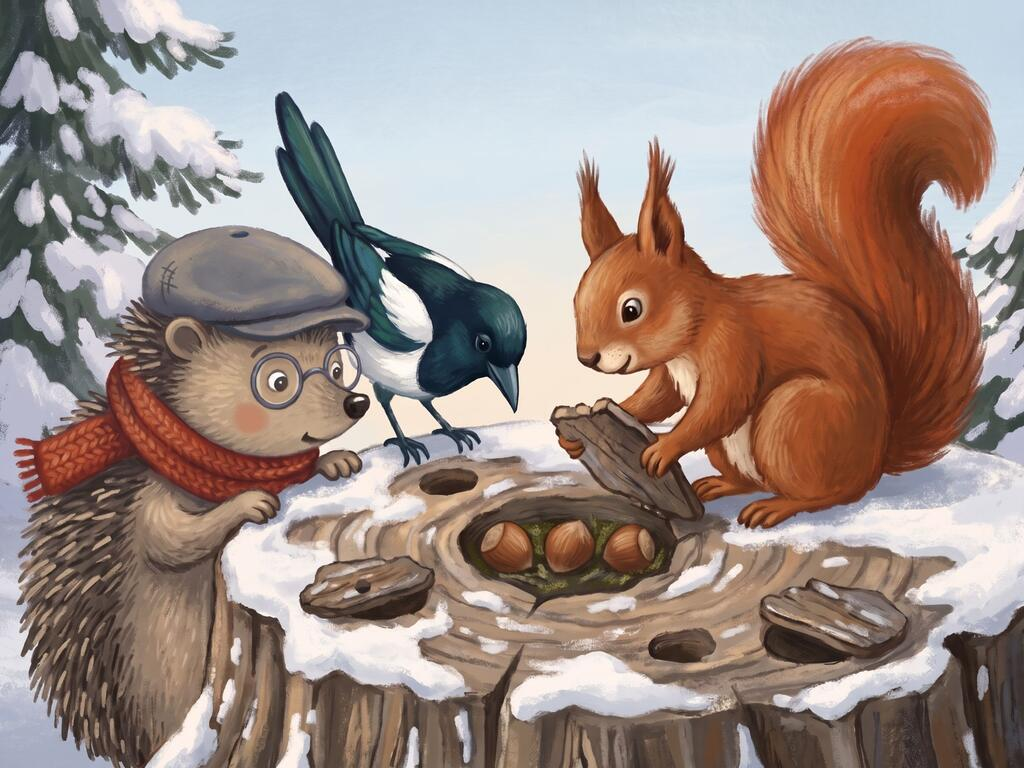
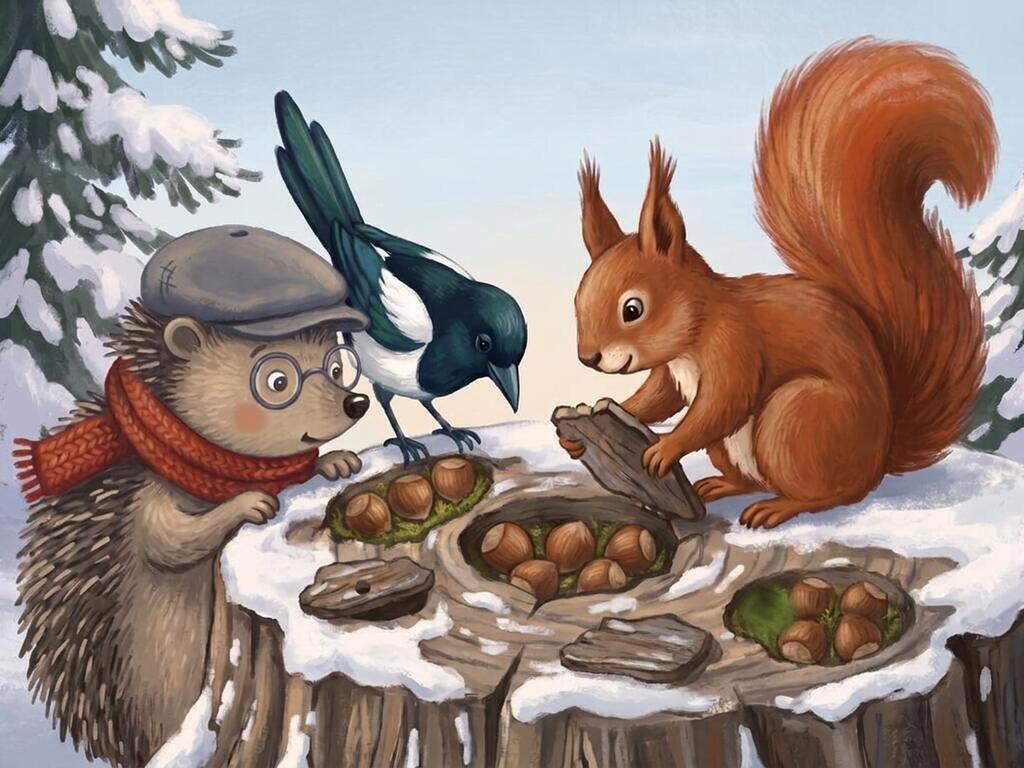
Julekalenderen dag 2: billede 2 viser alle tre huller med nødder
Billedet viste kun det første hul med tre nødder. Nu er alle tre huller
åbne: tre på række, tre over to og to over to. Midterhullet blev ikke
et terningmønster, så teksten siger nu 'tre øverst og to nederst' og
spørger 'Tre og to. Hvor mange er det?'.

Claude-Session: https://claude.ai/code/session_01JuJ2jhjKv5vpQpqD9x243Z

diff --git a/sw.js b/sw.js
@@ -1353,7 +1353,6 @@ const FILER_JUL = [
   'jul/lyd/en_gammel_mus_aabner_doeren_og_23f78c.mp3',
   'jul/lyd/en_gulerod_083a40.mp3',
   'jul/lyd/en_hel_uge_5f5feb.mp3',
-  'jul/lyd/en_i_hvert_hjoerne_og_en_71da91.mp3',
   'jul/lyd/en_kasket_ea5edc.mp3',
   'jul/lyd/en_lille_brik_med_gylden_kant_d5c019.mp3',
   'jul/lyd/en_lille_fisk_cc11ff.mp3',
@@ -1390,7 +1389,6 @@ const FILER_JUL = [
   'jul/lyd/find_en_til_841e08.mp3',
   'jul/lyd/find_to_ord_der_rimer_23a31d.mp3',
   'jul/lyd/fire_0e5c38.mp3',
-  'jul/lyd/fire_i_hjoernerne_og_en_i_8ab465.mp3',
   'jul/lyd/fire_snebolde_ligger_bag_snemanden_88acb8.mp3',
   'jul/lyd/fire_stammer_og_fem_stammer_807595.mp3',
   'jul/lyd/fire_venner_haenger_pynt_op_d71e40.mp3',
@@ -1506,7 +1504,7 @@ const FILER_JUL = [
   'jul/lyd/hele_vinteren_hvisker_sanne_43acf8.mp3',
   'jul/lyd/helt_oppe_i_toppen_af_traeet_45045f.mp3',
   'jul/lyd/her_bor_egernet_egon_2b6f17.mp3',
-  'jul/lyd/her_ligger_noedderne_ligesom_prikker_c6c3cf.mp3',
+  'jul/lyd/her_ligger_der_tre_noedder_oeverst_a121e0.mp3',
   'jul/lyd/herfra_kan_hun_se_helt_ud_93a816.mp3',
   'jul/lyd/hjaelp_med_at_pynte_juletraeet_til_c4c5f5.mp3',
   'jul/lyd/hoejt_oppe_flyver_et_fly_forbi_64292c.mp3',
@@ -1625,7 +1623,6 @@ const FILER_JUL = [
   'jul/lyd/hvor_mange_klap_var_det_a36733.mp3',
   'jul/lyd/hvor_mange_mangler_der_foer_der_a6ab69.mp3',
   'jul/lyd/hvor_mange_mangler_foer_der_er_5f252e.mp3',
-  'jul/lyd/hvor_mange_noedder_er_der_naar_36b3f8.mp3',
   'jul/lyd/hvor_mange_noedder_saa_i_9fafd6.mp3',
   'jul/lyd/hvor_mange_skal_hun_lave_foer_231006.mp3',
   'jul/lyd/hvor_mange_stjerner_saa_i_729426.mp3',
@@ -2431,6 +2428,7 @@ const FILER_JUL = [
   'jul/lyd/tre_gange_og_saa_knaekker_isen_7e471a.mp3',
   'jul/lyd/tre_kager_og_tre_kager_c012aa.mp3',
   'jul/lyd/tre_noedder_paa_en_lige_raekke_55bd6b.mp3',
+  'jul/lyd/tre_og_to_3f2abe.mp3',
   'jul/lyd/tre_og_to_er_fem_2e5971.mp3',
   'jul/lyd/tre_og_tre_er_seks_e98848.mp3',
   'jul/lyd/tre_og_tre_fcf1ef.mp3',

diff --git a/jul/js/kalender.js b/jul/js/kalender.js
@@ -145,8 +145,8 @@
             'Egon løfter det første låg. Men kun et kort øjeblik, for nødderne må ikke blive kolde.',
             '– Man kan godt se, hvor mange der er, uden at tælle, siger Egon. Hvis man kigger rigtig godt.',
             { spoerg: 'Der lå nødderne på række. Hvor mange var der?', svar: 'Tre. Tre nødder på en lige række.' },
-            'Egon løfter det næste låg. Her ligger nødderne ligesom prikkerne på en terning. Én i hvert hjørne og én i midten.',
-            { spoerg: 'Hvor mange nødder er der, når de ligger som på en terning?', svar: 'Fem. Fire i hjørnerne og én i midten.' },
+            'Egon løfter det næste låg. Her ligger der tre nødder øverst og to nødder nederst.',
+            { spoerg: 'Tre og to. Hvor mange er det?', svar: 'Fem. Tre og to er fem.' },
             '– Du er god til det, siger Pelle.',
             '– Det er fordi, jeg altid lægger dem pænt, siger Egon og retter på sin hale. Når de ligger pænt, kan man se det med det samme.',
             'Under det tredje låg ligger der to nødder øverst og to nødder nederst.',
